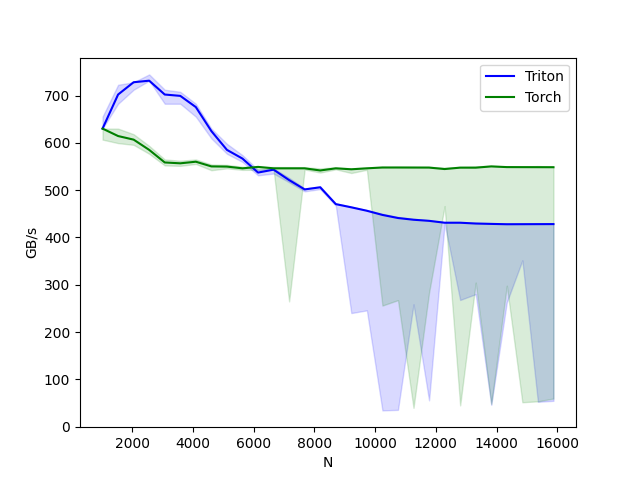
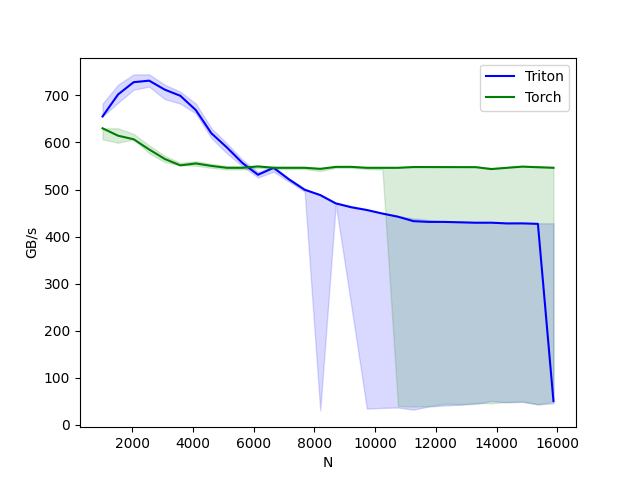
feat: update README and fix rmsnorm benchmark code errors

diff --git a/benchmark_result/results.html b/benchmark_result/results.html
@@ -1,0 +1,3 @@
+<html><body>
+<image src="layer-norm-forward.png"/>
+</body></html>

diff --git a/kernels/benchmark.py b/kernels/benchmark.py
@@ -19,7 +19,7 @@ result_path = "/gemini/code/pytriton_llama/benchmark_result/"
 ref_lib = 'cuBLAS' if is_cuda() else 'rocBLAS'
 TORCH_HAS_FP8 = hasattr(torch, "float8_e5m2")
 
-
+################################benchamrk matmul################################
 # configs = []
 # for fp8_inputs in [False, True]:
 #     if fp8_inputs and (not TORCH_HAS_FP8 or not is_cuda()):
@@ -59,93 +59,114 @@ TORCH_HAS_FP8 = hasattr(torch, "float8_e5m2")
 #     perf = lambda ms: 2 * M * N * K * 1e-12 / (ms * 1e-3)
 #     return perf(ms), perf(max_ms), perf(min_ms)
 
-
+################################benchamrk rmsnorm################################
+import torch.nn as nn
+class RMSNorm(nn.Module):
+    """nlp 领域"""
+    def __init__(self, dim):
+        """
+        :param dim: 输入的维度
+        :param eps: 防止除以0的稳定项
+        """
+        super(RMSNorm, self).__init__()
+        self.weight = nn.Parameter(torch.ones(dim))  # 可学习的缩放参数
     
-# @triton.testing.perf_report(
-#     triton.testing.Benchmark(
-#         x_names=['N'],
-#         x_vals=[512 * i for i in range(2, 32)],
-#         line_arg='provider',
-#         line_vals=['triton', 'torch'] + (['apex'] if HAS_APEX else []),
-#         line_names=['Triton', 'Torch'] + (['Apex'] if HAS_APEX else []),
-#         styles=[('blue', '-'), ('green', '-'), ('orange', '-')],
-#         ylabel='GB/s',
-#         plot_name='layer-norm-forward',
-#         args={'M': 4096, 'dtype': torch.float16, 'mode': 'forward'},
-#     ))
-# def bench_rmsnorm(M, N, dtype, provider, mode='forward', eps=1e-5, device='cuda'):
-#     # create data
-#     x_shape = (M, N)
-#     w_shape = (x_shape[-1], )
-#     weight = torch.rand(w_shape, dtype=dtype, device=device, requires_grad=True)
-#     bias = torch.rand(w_shape, dtype=dtype, device=device, requires_grad=True)
-#     x = -2.3 + 0.5 * torch.randn(x_shape, dtype=dtype, device=device)
-#     dy = .1 * torch.randn_like(x)
-#     x.requires_grad_(True)
-#     quantiles = [0.5, 0.2, 0.8]
+    def forward(self, x):
+        # x 的形状为 [batch_size, seq_len, dim]        
+        var = torch.mean(x ** 2, dim=-1, keepdim=True)
+        rms = torch.sqrt( var)
+        return x / rms * self.weight # 归一化，并应用缩放参数
+    
+@triton.testing.perf_report(
+    triton.testing.Benchmark(
+        x_names=['N'],
+        x_vals=[512 * i for i in range(2, 32)],
+        line_arg='provider',
+        line_vals=['triton', 'torch'] + (['apex'] if HAS_APEX else []),
+        line_names=['Triton', 'Torch_Py'] + (['Apex'] if HAS_APEX else []),
+        styles=[('blue', '-'), ('green', '-'), ('orange', '-')],
+        ylabel='GB/s',
+        plot_name='rms-norm-forward',
+        args={'M': 4096, 'dtype': torch.float16, 'mode': 'forward'},
+    ))
 
-#     def y_fwd():
-#         if provider == "triton":
-#             return rmsnorm(x, weight, bias, eps)  # noqa: F811, E704
+def bench_rmsnorm(M, N, dtype, provider, mode='forward', eps=1e-5, device='cuda'):
+    # create data
+    x_shape = (M, N)
+    w_shape = (x_shape[-1], )
+    weight = torch.rand(w_shape, dtype=dtype, device=device, requires_grad=True)
+    bias = torch.rand(w_shape, dtype=dtype, device=device, requires_grad=True)
+    x = -2.3 + 0.5 * torch.randn(x_shape, dtype=dtype, device=device)
+    dy = .1 * torch.randn_like(x)
+    x.requires_grad_(True)
+    quantiles = [0.5, 0.2, 0.8]
 
-#         if provider == "torch":
-#             return torch.nn.functional.rms_norm(x, w_shape, weight, bias, eps)  # noqa: F811, E704
+    def y_fwd():
+        if provider == "triton":
+            return rmsnorm(x, weight)  # noqa: F811, E704
 
-#         if provider == "apex":
-#             apex_layer_norm = (apex.normalization.FusedLayerNorm(w_shape).to(x.device).to(x.dtype))
-#             return apex_layer_norm(x)  # noqa: F811, E704
+        if provider == "torch":
+            rmsnorm_pytorch = RMSNorm(x_shape[-1]).to(device)
+            return rmsnorm_pytorch(x)
+            # return torch.nn.functional.rms_norm(x, w_shape, weight, bias, eps)  # noqa: F811, E704
 
-#     # forward pass
-#     if mode == 'forward':
-#         gbps = lambda ms: 2 * x.numel() * x.element_size() * 1e-9 / (ms * 1e-3)
-#         ms, min_ms, max_ms = triton.testing.do_bench(y_fwd, quantiles=quantiles, rep=500)
+        if provider == "apex":
+            apex_layer_norm = (apex.normalization.FusedLayerNorm(w_shape).to(x.device).to(x.dtype))
+            return apex_layer_norm(x)  # noqa: F811, E704
+
+    # forward pass
+    if mode == 'forward':
+        gbps = lambda ms: 2 * x.numel() * x.element_size() * 1e-9 / (ms * 1e-3)
+        ms, min_ms, max_ms = triton.testing.do_bench(y_fwd, quantiles=quantiles, rep=500)
         
-#     return gbps(ms), gbps(max_ms), gbps(min_ms)
+    return gbps(ms), gbps(max_ms), gbps(min_ms)
 
-# bench_rmsnorm.run(print_data=True, save_path=result_path)
+bench_rmsnorm.run(print_data=True, save_path=result_path)
 
-# @triton.testing.perf_report(
-#     triton.testing.Benchmark(
-#         x_names=['N'],
-#         x_vals=[512 * i for i in range(2, 32)],
-#         line_arg='provider',
-#         line_vals=['triton', 'torch'] + (['apex'] if HAS_APEX else []),
-#         line_names=['Triton', 'Torch'] + (['Apex'] if HAS_APEX else []),
-#         styles=[('blue', '-'), ('green', '-'), ('orange', '-')],
-#         ylabel='GB/s',
-#         plot_name='layer-norm-forward',
-#         args={'M': 4096, 'dtype': torch.float16, 'mode': 'forward'},
-#     ))
-# def bench_layer_norm(M, N, dtype, provider, mode='forward', eps=1e-5, device='cuda'):
-#     # create data
-#     x_shape = (M, N)
-#     w_shape = (x_shape[-1], )
-#     weight = torch.rand(w_shape, dtype=dtype, device=device, requires_grad=True)
-#     bias = torch.rand(w_shape, dtype=dtype, device=device, requires_grad=True)
-#     x = -2.3 + 0.5 * torch.randn(x_shape, dtype=dtype, device=device)
-#     dy = .1 * torch.randn_like(x)
-#     x.requires_grad_(True)
-#     quantiles = [0.5, 0.2, 0.8]
+################################benchamrk layernorm################################
 
-#     def y_fwd():
+@triton.testing.perf_report(
+    triton.testing.Benchmark(
+        x_names=['N'],
+        x_vals=[512 * i for i in range(2, 32)],
+        line_arg='provider',
+        line_vals=['triton', 'torch'] + (['apex'] if HAS_APEX else []),
+        line_names=['Triton', 'Torch'] + (['Apex'] if HAS_APEX else []),
+        styles=[('blue', '-'), ('green', '-'), ('orange', '-')],
+        ylabel='GB/s',
+        plot_name='layer-norm-forward',
+        args={'M': 4096, 'dtype': torch.float16, 'mode': 'forward'},
+    ))
+def bench_layer_norm(M, N, dtype, provider, mode='forward', eps=1e-5, device='cuda'):
+    # create data
+    x_shape = (M, N)
+    w_shape = (x_shape[-1], )
+    weight = torch.rand(w_shape, dtype=dtype, device=device, requires_grad=True)
+    bias = torch.rand(w_shape, dtype=dtype, device=device, requires_grad=True)
+    x = -2.3 + 0.5 * torch.randn(x_shape, dtype=dtype, device=device)
+    dy = .1 * torch.randn_like(x)
+    x.requires_grad_(True)
+    quantiles = [0.5, 0.2, 0.8]
 
-#         if provider == "triton":
-#             return layernorm(x, weight, bias, eps)  # noqa: F811, E704
+    def y_fwd():
 
-#         if provider == "torch":
-#             return torch.nn.functional.layer_norm(x, w_shape, weight, bias, eps)  # noqa: F811, E704
+        if provider == "triton":
+            return layernorm(x, weight, bias, eps)  # noqa: F811, E704
 
-#         if provider == "apex":
-#             apex_layer_norm = (apex.normalization.FusedLayerNorm(w_shape).to(x.device).to(x.dtype))
-#             return apex_layer_norm(x)  # noqa: F811, E704
+        if provider == "torch":
+            return torch.nn.functional.layer_norm(x, w_shape, weight, bias, eps)  # noqa: F811, E704
 
-#     # forward pass
-#     if mode == 'forward':
-#         gbps = lambda ms: 2 * x.numel() * x.element_size() * 1e-9 / (ms * 1e-3)
-#         ms, min_ms, max_ms = triton.testing.do_bench(y_fwd, quantiles=quantiles, rep=500)
-#     return gbps(ms), gbps(max_ms), gbps(min_ms)
+        if provider == "apex":
+            apex_layer_norm = (apex.normalization.FusedLayerNorm(w_shape).to(x.device).to(x.dtype))
+            return apex_layer_norm(x)  # noqa: F811, E704
 
-# bench_layer_norm.run(print_data=True, save_path=result_path)
+    # forward pass
+    if mode == 'forward':
+        gbps = lambda ms: 2 * x.numel() * x.element_size() * 1e-9 / (ms * 1e-3)
+        ms, min_ms, max_ms = triton.testing.do_bench(y_fwd, quantiles=quantiles, rep=500)
+    return gbps(ms), gbps(max_ms), gbps(min_ms)
+
+bench_layer_norm.run(print_data=True, save_path=result_path)
 
 ################################benchamrk softmax################################
 # # 对 softmax 操作的不同实现（Triton、PyTorch、PyTorch JIT）进行性能基准测试（Benchmark）

diff --git a/kernels/rmsnorm.py b/kernels/rmsnorm.py
@@ -7,10 +7,9 @@ def _rmsnorm_kernel_fwd(
     w_ptr, # gamma 参数地址
     z_ptr, # 输出结果首元素指针
     K,
-    eps=1e-5,  # epsilon to avoid division by zero
     BLOCK_SIZE: tl.constexpr = 8,
 ):
-    # z = (x / (rms + eps)) * w
+    # z = (x / (rms)) * w
     
     row_idx = tl.program_id(0)
     x_row_ptr = x_ptr + row_idx * K # 一行有 K 个元素，K 是最后一维
@@ -27,7 +26,7 @@ def _rmsnorm_kernel_fwd(
         _var += x*x
     
     var = tl.sum(_var, axis=0) / K
-    rsqrt =  1 / tl.sqrt(var + eps)
+    rsqrt =  1 / tl.sqrt(var)
     
     # Normalize and apply rmsnorm
     for col_index in range(0, K, BLOCK_SIZE):
@@ -44,7 +43,6 @@ def _rmsnorm_kernel_fwd(
 def rmsnorm(
     x,
     weight,
-    eps=1e-5
 ):
     # 只针对 nlp 领域的 layernorm，省去了 normalized_shape 参数
     assert x.is_contiguous()
@@ -68,7 +66,6 @@ def rmsnorm(
         weight,
         z,
         K, 
-        eps,
         BLOCK_SIZE=BLOCK_SIZE,    
     )  
     return z.view(out_shape)

diff --git a/unit_test.py b/unit_test.py
@@ -8,23 +8,21 @@ from kernels.rmsnorm import rmsnorm
 from kernels.layernorm import layernorm
 from kernels.softmax import naive_softmax, softmax
 from kernels.flashattention import flash_attention_v1
-from pytriton_llama.kernels.attention import attention_forward
 
 class RMSNorm(nn.Module):
     """nlp 领域"""
-    def __init__(self, dim, eps=1e-8):
+    def __init__(self, dim):
         """
         :param dim: 输入的维度
         :param eps: 防止除以0的稳定项
         """
         super(RMSNorm, self).__init__()
-        self.eps = eps
         self.weight = nn.Parameter(torch.ones(dim))  # 可学习的缩放参数
     
     def forward(self, x):
         # x 的形状为 [batch_size, seq_len, dim]        
         var = torch.mean(x ** 2, dim=-1, keepdim=True)
-        rms = torch.sqrt( var + self.eps)
+        rms = torch.sqrt( var)
         return x / rms * self.weight # 归一化，并应用缩放参数
 
 def _get_attn_inputs(B, N, L, H, device):

diff --git a/README.md b/README.md
@@ -45,7 +45,95 @@ triton                         2.1.0
 triton-nightly                 3.0.0.post20240716052845
 ```
 
+## kernels unit test
+
+```bash
+=========================================================================================== test session starts ============================================================================================
+platform linux -- Python 3.11.8, pytest-8.3.3, pluggy-1.5.0 -- /root/miniconda3/bin/python
+cachedir: .pytest_cache
+rootdir: /gemini/code/pytriton_llama
+plugins: anyio-4.3.0
+collected 41 items                                                                                                                                                                                         
+
+unit_test.py::test_fused_ffn[128-128-64] PASSED                                                                                                                                                      [  2%]
+unit_test.py::test_rmsnorm[32-128] PASSED                                                                                                                                                            [  4%]
+unit_test.py::test_rmsnorm[32-32] PASSED                                                                                                                                                             [  7%]
+unit_test.py::test_rmsnorm[128-128] PASSED                                                                                                                                                           [  9%]
+unit_test.py::test_rmsnorm[128-32] PASSED                                                                                                                                                            [ 12%]
+unit_test.py::test_rmsnorm[64-128] PASSED                                                                                                                                                            [ 14%]
+unit_test.py::test_rmsnorm[64-32] PASSED                                                                                                                                                             [ 17%]
+unit_test.py::test_layernorm[32-128] PASSED                                                                                                                                                          [ 19%]
+unit_test.py::test_layernorm[32-32] PASSED                                                                                                                                                           [ 21%]
+unit_test.py::test_layernorm[32-64] PASSED                                                                                                                                                           [ 24%]
+unit_test.py::test_layernorm[128-128] PASSED                                                                                                                                                         [ 26%]
+unit_test.py::test_layernorm[128-32] PASSED                                                                                                                                                          [ 29%]
+unit_test.py::test_layernorm[128-64] PASSED                                                                                                                                                          [ 31%]
+unit_test.py::test_layernorm[64-128] PASSED                                                                                                                                                          [ 34%]
+unit_test.py::test_layernorm[64-32] PASSED                                                                                                                                                           [ 36%]
+unit_test.py::test_layernorm[64-64] PASSED                                                                                                                                                           [ 39%]
+unit_test.py::test_softmax[32-128] PASSED                                                                                                                                                            [ 41%]
+unit_test.py::test_softmax[32-32] PASSED                                                                                                                                                             [ 43%]
+unit_test.py::test_softmax[32-64] PASSED                                                                                                                                                             [ 46%]
+unit_test.py::test_softmax[128-128] PASSED                                                                                                                                                           [ 48%]
+unit_test.py::test_softmax[128-32] PASSED                                                                                                                                                            [ 51%]
+unit_test.py::test_softmax[128-64] PASSED                                                                                                                                                            [ 53%]
+unit_test.py::test_softmax[64-128] PASSED                                                                                                                                                            [ 56%]
+unit_test.py::test_softmax[64-32] PASSED                                                                                                                                                             [ 58%]
+unit_test.py::test_softmax[64-64] PASSED                                                                                                                                                             [ 60%]
+unit_test.py::test_flash_attention_v1[32-128-4-8] PASSED                                                                                                                                             [ 63%]
+unit_test.py::test_flash_attention_v1[32-128-8-16] PASSED                                                                                                                                            [ 65%]
+unit_test.py::test_flash_attention_v1[32-128-24-32] PASSED                                                                                                                                           [ 68%]
+unit_test.py::test_flash_attention_v1[32-128-64-20] PASSED                                                                                                                                           [ 70%]
+unit_test.py::test_flash_attention_v1[32-256-4-8] PASSED                                                                                                                                             [ 73%]
+unit_test.py::test_flash_attention_v1[32-256-8-16] PASSED                                                                                                                                            [ 75%]
+unit_test.py::test_flash_attention_v1[32-256-24-32] PASSED                                                                                                                                           [ 78%]
+unit_test.py::test_flash_attention_v1[32-256-64-20] PASSED                                                                                                                                           [ 80%]
+unit_test.py::test_flash_attention_v1[64-128-4-8] PASSED                                                                                                                                             [ 82%]
+unit_test.py::test_flash_attention_v1[64-128-8-16] PASSED                                                                                                                                            [ 85%]
+unit_test.py::test_flash_attention_v1[64-128-24-32] PASSED                                                                                                                                           [ 87%]
+unit_test.py::test_flash_attention_v1[64-128-64-20] PASSED                                                                                                                                           [ 90%]
+unit_test.py::test_flash_attention_v1[64-256-4-8] PASSED                                                                                                                                             [ 92%]
+unit_test.py::test_flash_attention_v1[64-256-8-16] PASSED                                                                                                                                            [ 95%]
+unit_test.py::test_flash_attention_v1[64-256-24-32] PASSED                                                                                                                                           [ 97%]
+unit_test.py::test_flash_attention_v1[64-256-64-20] PASSED                                                                                                                                           [100%]
+
+============================================================================================ 41 passed in 7.32s ============================================================================================
+```
+
+## kernels benchmark test
+
+### softmax
+
+softmax benchmark test result:
+
+![softmax](./benchmark_result/softmax-performance.png)
+
+### linear
+
+linear(matmul) benchmark test result:
+
+![matmul](./benchmark_result/matmul-performance-fp16.png)
+
+### rmsnorm
+
+rmsnorm benchmark test result:
+
+![rms-norm](./benchmark_result/rms-norm-forward.png)
+
+### layernorm
+
+layernorm benchmark test result:
+
+![layer-norm-forward](./benchmark_result/layer-norm-forward.png)
+
+### flashattention
+
+flashattention benchmark test result:
+
+![flashattention benchmark test](./benchmark_result/fused-attention-batch8-head64-d64-fwd-causal=False.png)
+![flashattention benchmark test](./benchmark_result/fused-attention-batch4-head32-d64-fwd-causal=False.png)
 ## Some triton kernels repositories
 
 - https://github.com/ELS-RD/kernl/tree/main
 - https://github.com/unslothai/unsloth/tree/main
+https://triton-lang.org/main/getting-started/tutorials/
